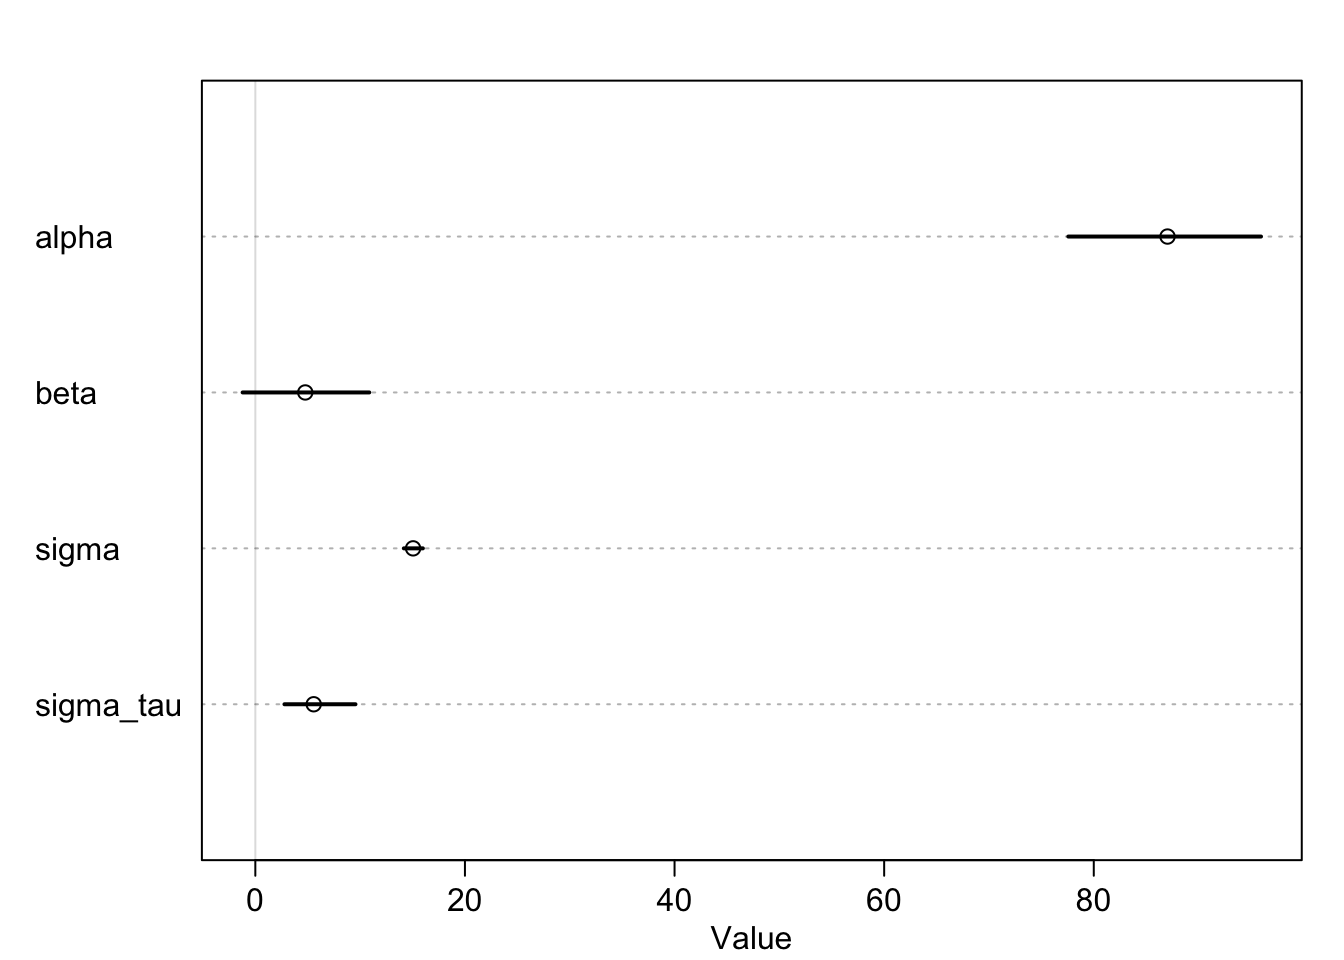
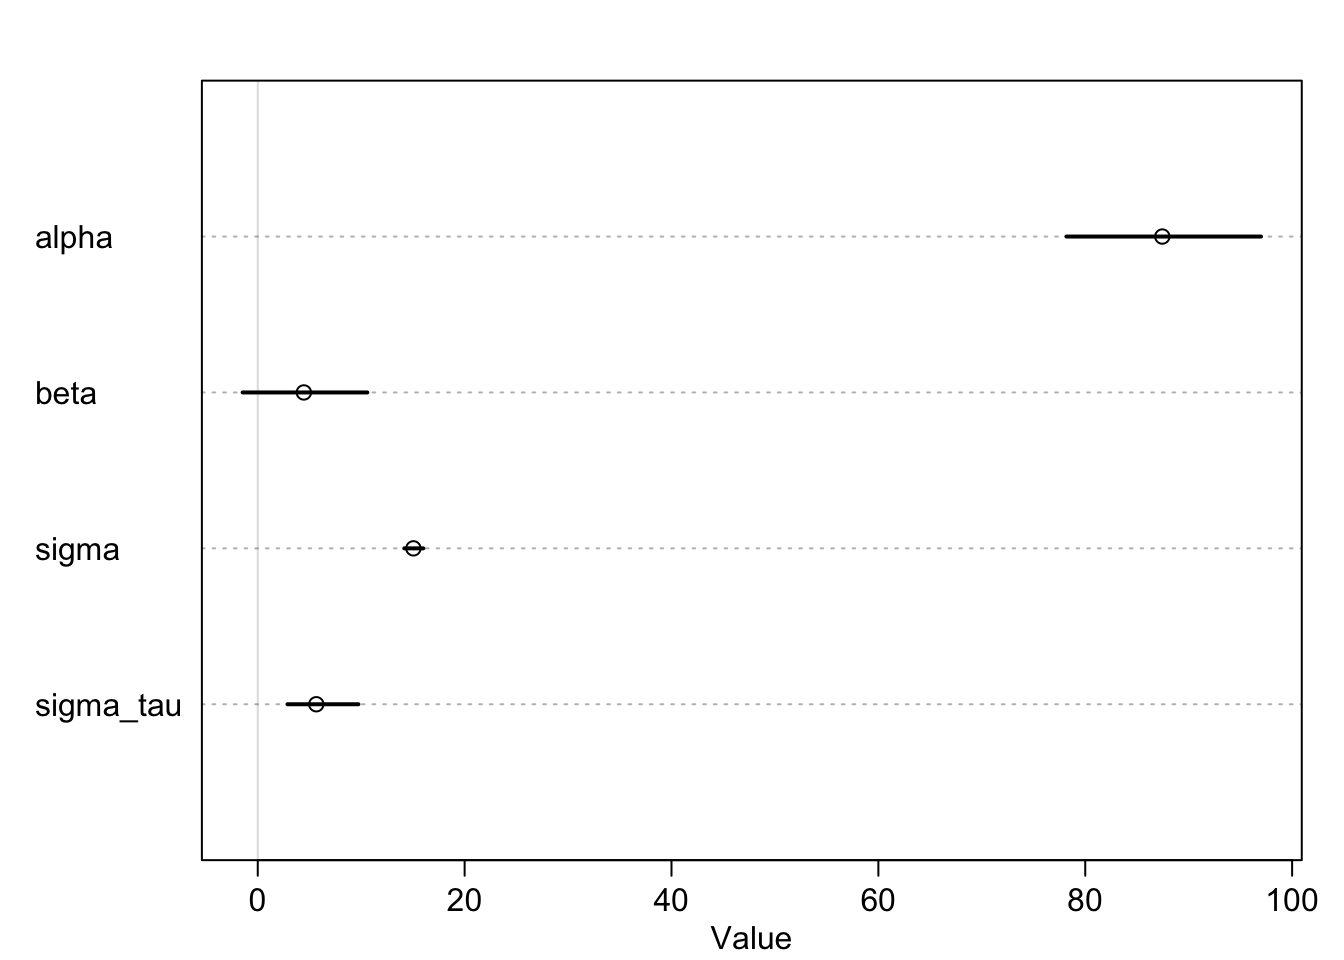
Minor fixes

diff --git a/index.html b/index.html
@@ -177,17 +177,16 @@ window.Quarto = {
 <span id="cb1-2"><a href="#cb1-2" aria-hidden="true" tabindex="-1"></a><span class="fu">library</span>(magrittr)</span>
 <span id="cb1-3"><a href="#cb1-3" aria-hidden="true" tabindex="-1"></a><span class="fu">library</span>(broom)</span>
 <span id="cb1-4"><a href="#cb1-4" aria-hidden="true" tabindex="-1"></a><span class="fu">library</span>(broom.mixed)</span>
-<span id="cb1-5"><a href="#cb1-5" aria-hidden="true" tabindex="-1"></a><span class="fu">library</span>(ggformula)</span>
-<span id="cb1-6"><a href="#cb1-6" aria-hidden="true" tabindex="-1"></a><span class="fu">library</span>(ggeffects)</span>
-<span id="cb1-7"><a href="#cb1-7" aria-hidden="true" tabindex="-1"></a><span class="fu">library</span>(performance)</span>
-<span id="cb1-8"><a href="#cb1-8" aria-hidden="true" tabindex="-1"></a></span>
-<span id="cb1-9"><a href="#cb1-9" aria-hidden="true" tabindex="-1"></a><span class="fu">library</span>(rethinking)</span>
-<span id="cb1-10"><a href="#cb1-10" aria-hidden="true" tabindex="-1"></a><span class="fu">library</span>(brms)</span>
-<span id="cb1-11"><a href="#cb1-11" aria-hidden="true" tabindex="-1"></a><span class="fu">library</span>(lmerTest)</span>
-<span id="cb1-12"><a href="#cb1-12" aria-hidden="true" tabindex="-1"></a><span class="fu">library</span>(bayesplot)</span>
-<span id="cb1-13"><a href="#cb1-13" aria-hidden="true" tabindex="-1"></a><span class="fu">library</span>(flexplot)</span>
-<span id="cb1-14"><a href="#cb1-14" aria-hidden="true" tabindex="-1"></a></span>
-<span id="cb1-15"><a href="#cb1-15" aria-hidden="true" tabindex="-1"></a><span class="fu">options</span>(<span class="at">mc.cores =</span> parallel<span class="sc">::</span><span class="fu">detectCores</span>())</span></code><button title="Copy to Clipboard" class="code-copy-button"><i class="bi"></i></button></pre></div>
+<span id="cb1-5"><a href="#cb1-5" aria-hidden="true" tabindex="-1"></a><span class="fu">library</span>(performance)</span>
+<span id="cb1-6"><a href="#cb1-6" aria-hidden="true" tabindex="-1"></a><span class="fu">library</span>(flexplot)</span>
+<span id="cb1-7"><a href="#cb1-7" aria-hidden="true" tabindex="-1"></a><span class="fu">library</span>(ggformula)</span>
+<span id="cb1-8"><a href="#cb1-8" aria-hidden="true" tabindex="-1"></a><span class="fu">library</span>(ggeffects)</span>
+<span id="cb1-9"><a href="#cb1-9" aria-hidden="true" tabindex="-1"></a></span>
+<span id="cb1-10"><a href="#cb1-10" aria-hidden="true" tabindex="-1"></a><span class="fu">library</span>(lmerTest)</span>
+<span id="cb1-11"><a href="#cb1-11" aria-hidden="true" tabindex="-1"></a><span class="fu">library</span>(rethinking)</span>
+<span id="cb1-12"><a href="#cb1-12" aria-hidden="true" tabindex="-1"></a><span class="fu">library</span>(brms)</span>
+<span id="cb1-13"><a href="#cb1-13" aria-hidden="true" tabindex="-1"></a></span>
+<span id="cb1-14"><a href="#cb1-14" aria-hidden="true" tabindex="-1"></a><span class="fu">options</span>(<span class="at">mc.cores =</span> parallel<span class="sc">::</span><span class="fu">detectCores</span>())</span></code><button title="Copy to Clipboard" class="code-copy-button"><i class="bi"></i></button></pre></div>
 </div>
 </section>
 <section id="read-and-prep-data" class="level2">
@@ -466,101 +465,101 @@ window.Quarto = {
 <div class="cell-output cell-output-stdout">
 <pre><code>Chain 1 Iteration:    1 / 2000 [  0%]  (Warmup) 
 Chain 1 Iteration:  100 / 2000 [  5%]  (Warmup) 
-Chain 1 Iteration:  200 / 2000 [ 10%]  (Warmup) 
-Chain 1 Iteration:  300 / 2000 [ 15%]  (Warmup) 
-Chain 2 Iteration:    1 / 2000 [  0%]  (Warmup) 
+Chain 1 Iteration:  200 / 2000 [ 10%]  (Warmup) </code></pre>
+</div>
+<div class="cell-output cell-output-stdout">
+<pre><code>Chain 2 Iteration:    1 / 2000 [  0%]  (Warmup) 
 Chain 2 Iteration:  100 / 2000 [  5%]  (Warmup) 
 Chain 2 Iteration:  200 / 2000 [ 10%]  (Warmup) 
 Chain 2 Iteration:  300 / 2000 [ 15%]  (Warmup) 
 Chain 3 Iteration:    1 / 2000 [  0%]  (Warmup) 
 Chain 3 Iteration:  100 / 2000 [  5%]  (Warmup) 
 Chain 3 Iteration:  200 / 2000 [ 10%]  (Warmup) 
-Chain 3 Iteration:  300 / 2000 [ 15%]  (Warmup) </code></pre>
-</div>
-<div class="cell-output cell-output-stdout">
-<pre><code>Chain 4 Iteration:    1 / 2000 [  0%]  (Warmup) 
+Chain 3 Iteration:  300 / 2000 [ 15%]  (Warmup) 
+Chain 4 Iteration:    1 / 2000 [  0%]  (Warmup) 
 Chain 4 Iteration:  100 / 2000 [  5%]  (Warmup) 
 Chain 4 Iteration:  200 / 2000 [ 10%]  (Warmup) 
+Chain 4 Iteration:  300 / 2000 [ 15%]  (Warmup) 
+Chain 1 Iteration:  300 / 2000 [ 15%]  (Warmup) 
 Chain 1 Iteration:  400 / 2000 [ 20%]  (Warmup) 
 Chain 1 Iteration:  500 / 2000 [ 25%]  (Warmup) 
 Chain 1 Iteration:  600 / 2000 [ 30%]  (Warmup) 
-Chain 1 Iteration:  700 / 2000 [ 35%]  (Warmup) 
 Chain 2 Iteration:  400 / 2000 [ 20%]  (Warmup) 
 Chain 2 Iteration:  500 / 2000 [ 25%]  (Warmup) 
 Chain 2 Iteration:  600 / 2000 [ 30%]  (Warmup) 
 Chain 3 Iteration:  400 / 2000 [ 20%]  (Warmup) 
 Chain 3 Iteration:  500 / 2000 [ 25%]  (Warmup) 
 Chain 3 Iteration:  600 / 2000 [ 30%]  (Warmup) 
-Chain 4 Iteration:  300 / 2000 [ 15%]  (Warmup) 
 Chain 4 Iteration:  400 / 2000 [ 20%]  (Warmup) 
 Chain 4 Iteration:  500 / 2000 [ 25%]  (Warmup) 
+Chain 4 Iteration:  600 / 2000 [ 30%]  (Warmup) 
+Chain 4 Iteration:  700 / 2000 [ 35%]  (Warmup) 
+Chain 1 Iteration:  700 / 2000 [ 35%]  (Warmup) 
 Chain 1 Iteration:  800 / 2000 [ 40%]  (Warmup) 
 Chain 1 Iteration:  900 / 2000 [ 45%]  (Warmup) 
+Chain 1 Iteration: 1000 / 2000 [ 50%]  (Warmup) 
+Chain 1 Iteration: 1001 / 2000 [ 50%]  (Sampling) 
 Chain 2 Iteration:  700 / 2000 [ 35%]  (Warmup) 
 Chain 2 Iteration:  800 / 2000 [ 40%]  (Warmup) 
 Chain 2 Iteration:  900 / 2000 [ 45%]  (Warmup) 
+Chain 2 Iteration: 1000 / 2000 [ 50%]  (Warmup) 
+Chain 2 Iteration: 1001 / 2000 [ 50%]  (Sampling) 
 Chain 3 Iteration:  700 / 2000 [ 35%]  (Warmup) 
 Chain 3 Iteration:  800 / 2000 [ 40%]  (Warmup) 
 Chain 3 Iteration:  900 / 2000 [ 45%]  (Warmup) 
-Chain 4 Iteration:  600 / 2000 [ 30%]  (Warmup) 
-Chain 4 Iteration:  700 / 2000 [ 35%]  (Warmup) 
 Chain 4 Iteration:  800 / 2000 [ 40%]  (Warmup) 
-Chain 1 Iteration: 1000 / 2000 [ 50%]  (Warmup) 
-Chain 1 Iteration: 1001 / 2000 [ 50%]  (Sampling) 
 Chain 4 Iteration:  900 / 2000 [ 45%]  (Warmup) 
+Chain 4 Iteration: 1000 / 2000 [ 50%]  (Warmup) 
+Chain 4 Iteration: 1001 / 2000 [ 50%]  (Sampling) 
 Chain 1 Iteration: 1100 / 2000 [ 55%]  (Sampling) 
 Chain 1 Iteration: 1200 / 2000 [ 60%]  (Sampling) 
-Chain 2 Iteration: 1000 / 2000 [ 50%]  (Warmup) 
-Chain 2 Iteration: 1001 / 2000 [ 50%]  (Sampling) 
 Chain 2 Iteration: 1100 / 2000 [ 55%]  (Sampling) 
+Chain 2 Iteration: 1200 / 2000 [ 60%]  (Sampling) 
 Chain 3 Iteration: 1000 / 2000 [ 50%]  (Warmup) 
 Chain 3 Iteration: 1001 / 2000 [ 50%]  (Sampling) 
 Chain 3 Iteration: 1100 / 2000 [ 55%]  (Sampling) 
 Chain 3 Iteration: 1200 / 2000 [ 60%]  (Sampling) 
-Chain 4 Iteration: 1000 / 2000 [ 50%]  (Warmup) 
-Chain 4 Iteration: 1001 / 2000 [ 50%]  (Sampling) 
+Chain 3 Iteration: 1300 / 2000 [ 65%]  (Sampling) 
 Chain 4 Iteration: 1100 / 2000 [ 55%]  (Sampling) 
+Chain 4 Iteration: 1200 / 2000 [ 60%]  (Sampling) 
+Chain 4 Iteration: 1300 / 2000 [ 65%]  (Sampling) 
 Chain 1 Iteration: 1300 / 2000 [ 65%]  (Sampling) 
 Chain 1 Iteration: 1400 / 2000 [ 70%]  (Sampling) 
 Chain 1 Iteration: 1500 / 2000 [ 75%]  (Sampling) 
-Chain 1 Iteration: 1600 / 2000 [ 80%]  (Sampling) 
-Chain 2 Iteration: 1200 / 2000 [ 60%]  (Sampling) 
 Chain 2 Iteration: 1300 / 2000 [ 65%]  (Sampling) 
 Chain 2 Iteration: 1400 / 2000 [ 70%]  (Sampling) 
 Chain 2 Iteration: 1500 / 2000 [ 75%]  (Sampling) 
-Chain 3 Iteration: 1300 / 2000 [ 65%]  (Sampling) 
 Chain 3 Iteration: 1400 / 2000 [ 70%]  (Sampling) 
 Chain 3 Iteration: 1500 / 2000 [ 75%]  (Sampling) 
 Chain 3 Iteration: 1600 / 2000 [ 80%]  (Sampling) 
-Chain 4 Iteration: 1200 / 2000 [ 60%]  (Sampling) 
-Chain 4 Iteration: 1300 / 2000 [ 65%]  (Sampling) 
 Chain 4 Iteration: 1400 / 2000 [ 70%]  (Sampling) 
-Chain 1 Iteration: 1700 / 2000 [ 85%]  (Sampling) 
-Chain 1 Iteration: 1800 / 2000 [ 90%]  (Sampling) 
-Chain 1 Iteration: 1900 / 2000 [ 95%]  (Sampling) 
-Chain 2 Iteration: 1600 / 2000 [ 80%]  (Sampling) 
-Chain 2 Iteration: 1700 / 2000 [ 85%]  (Sampling) 
-Chain 2 Iteration: 1800 / 2000 [ 90%]  (Sampling) 
-Chain 3 Iteration: 1700 / 2000 [ 85%]  (Sampling) 
-Chain 3 Iteration: 1800 / 2000 [ 90%]  (Sampling) 
-Chain 3 Iteration: 1900 / 2000 [ 95%]  (Sampling) 
 Chain 4 Iteration: 1500 / 2000 [ 75%]  (Sampling) 
 Chain 4 Iteration: 1600 / 2000 [ 80%]  (Sampling) 
 Chain 4 Iteration: 1700 / 2000 [ 85%]  (Sampling) 
-Chain 4 Iteration: 1800 / 2000 [ 90%]  (Sampling) 
-Chain 1 Iteration: 2000 / 2000 [100%]  (Sampling) 
-Chain 2 Iteration: 1900 / 2000 [ 95%]  (Sampling) 
-Chain 2 Iteration: 2000 / 2000 [100%]  (Sampling) 
+Chain 1 Iteration: 1600 / 2000 [ 80%]  (Sampling) 
+Chain 1 Iteration: 1700 / 2000 [ 85%]  (Sampling) 
+Chain 2 Iteration: 1600 / 2000 [ 80%]  (Sampling) 
+Chain 2 Iteration: 1700 / 2000 [ 85%]  (Sampling) 
+Chain 3 Iteration: 1700 / 2000 [ 85%]  (Sampling) 
+Chain 3 Iteration: 1800 / 2000 [ 90%]  (Sampling) 
+Chain 3 Iteration: 1900 / 2000 [ 95%]  (Sampling) 
 Chain 3 Iteration: 2000 / 2000 [100%]  (Sampling) 
+Chain 4 Iteration: 1800 / 2000 [ 90%]  (Sampling) 
 Chain 4 Iteration: 1900 / 2000 [ 95%]  (Sampling) 
 Chain 4 Iteration: 2000 / 2000 [100%]  (Sampling) 
+Chain 3 finished in 0.7 seconds.
+Chain 4 finished in 0.6 seconds.
+Chain 1 Iteration: 1800 / 2000 [ 90%]  (Sampling) 
+Chain 1 Iteration: 1900 / 2000 [ 95%]  (Sampling) 
+Chain 1 Iteration: 2000 / 2000 [100%]  (Sampling) 
+Chain 2 Iteration: 1800 / 2000 [ 90%]  (Sampling) 
+Chain 2 Iteration: 1900 / 2000 [ 95%]  (Sampling) 
+Chain 2 Iteration: 2000 / 2000 [100%]  (Sampling) 
 Chain 1 finished in 0.8 seconds.
 Chain 2 finished in 0.8 seconds.
-Chain 3 finished in 0.8 seconds.
-Chain 4 finished in 0.8 seconds.
 
 All 4 chains finished successfully.
-Mean chain execution time: 0.8 seconds.
+Mean chain execution time: 0.7 seconds.
 Total execution time: 0.9 seconds.</code></pre>
 </div>
 </div>
@@ -569,7 +568,7 @@ Total execution time: 0.9 seconds.</code></pre>
 <div class="cell-output-display">
 <div data-pagedtable="false">
   <script data-pagedtable-source="" type="application/json">
-{"columns":[{"label":[""],"name":["_rn_"],"type":[""],"align":["left"]},{"label":["mean"],"name":[1],"type":["dbl"],"align":["right"]},{"label":["sd"],"name":[2],"type":["dbl"],"align":["right"]},{"label":["5.5%"],"name":[3],"type":["dbl"],"align":["right"]},{"label":["94.5%"],"name":[4],"type":["dbl"],"align":["right"]},{"label":["rhat"],"name":[5],"type":["dbl"],"align":["right"]},{"label":["ess_bulk"],"name":[6],"type":["dbl"],"align":["right"]}],"data":[{"1":"87.035","2":"5.774","3":"77.568","4":"95.958","5":"1.002","6":"1046","_rn_":"alpha"},{"1":"4.764","2":"3.758","3":"-1.213","4":"10.873","5":"1.002","6":"1018","_rn_":"beta"},{"1":"15.053","2":"0.561","3":"14.168","4":"15.987","5":"1.001","6":"2841","_rn_":"sigma"},{"1":"5.570","2":"2.220","3":"2.778","4":"9.556","5":"1.002","6":"968","_rn_":"sigma_tau"}],"options":{"columns":{"min":{},"max":[10]},"rows":{"min":[10],"max":[10]},"pages":{}}}
+{"columns":[{"label":[""],"name":["_rn_"],"type":[""],"align":["left"]},{"label":["mean"],"name":[1],"type":["dbl"],"align":["right"]},{"label":["sd"],"name":[2],"type":["dbl"],"align":["right"]},{"label":["5.5%"],"name":[3],"type":["dbl"],"align":["right"]},{"label":["94.5%"],"name":[4],"type":["dbl"],"align":["right"]},{"label":["rhat"],"name":[5],"type":["dbl"],"align":["right"]},{"label":["ess_bulk"],"name":[6],"type":["dbl"],"align":["right"]}],"data":[{"1":"87.451","2":"5.9178","3":"78.176","4":"96.99","5":"1.001","6":"947.1","_rn_":"alpha"},{"1":"4.457","2":"3.8500","3":"-1.463","4":"10.59","5":"1.001","6":"1000.7","_rn_":"beta"},{"1":"15.048","2":"0.5745","3":"14.165","4":"16.00","5":"1.003","6":"2861.1","_rn_":"sigma"},{"1":"5.661","2":"2.2482","3":"2.872","4":"9.73","5":"1.005","6":"1249.7","_rn_":"sigma_tau"}],"options":{"columns":{"min":{},"max":[10]},"rows":{"min":[10],"max":[10]},"pages":{}}}
   </script>
 </div>
 </div>
@@ -640,7 +639,7 @@ make: *** [foo.o] Error 1</code></pre>
  abind            1.4-8       2024-09-12 [1] CRAN (R 4.4.1)
  backports        1.5.0       2024-05-23 [1] CRAN (R 4.4.0)
  base64enc        0.1-3       2015-07-28 [1] CRAN (R 4.4.0)
- bayesplot      * 1.11.1      2024-02-15 [1] CRAN (R 4.4.0)
+ bayesplot        1.11.1      2024-02-15 [1] CRAN (R 4.4.0)
  bit              4.5.0       2024-09-20 [1] CRAN (R 4.4.1)
  bit64            4.5.2       2024-09-22 [1] CRAN (R 4.4.1)
  boot             1.3-30      2024-02-26 [2] CRAN (R 4.4.1)
